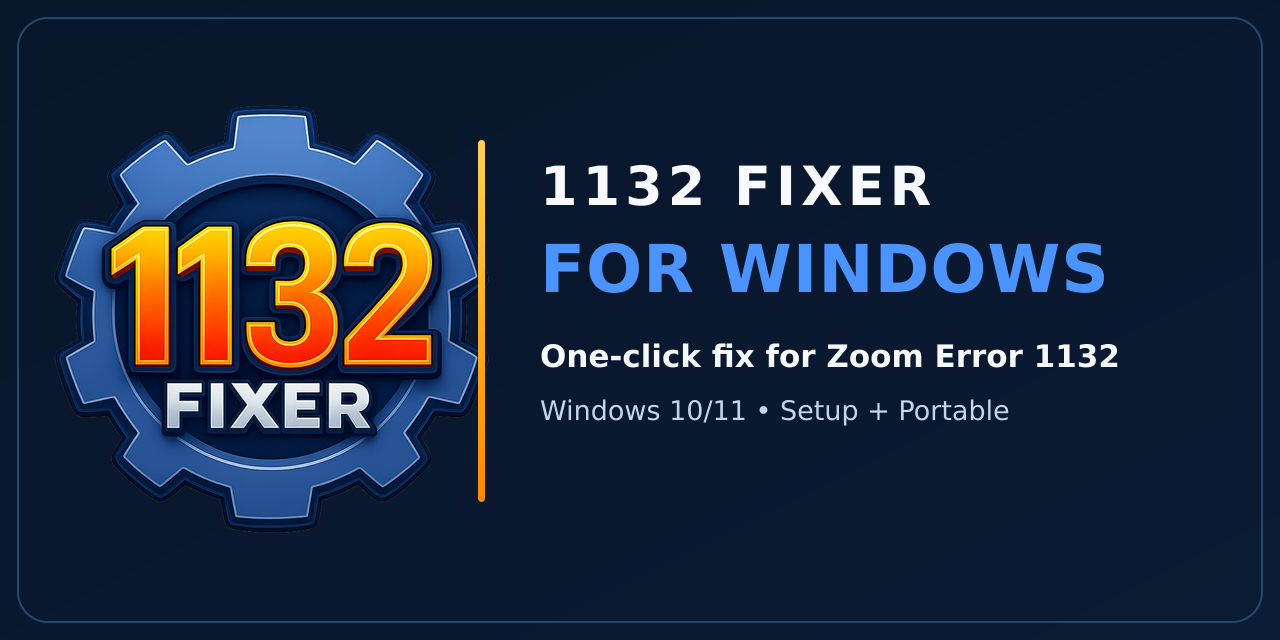
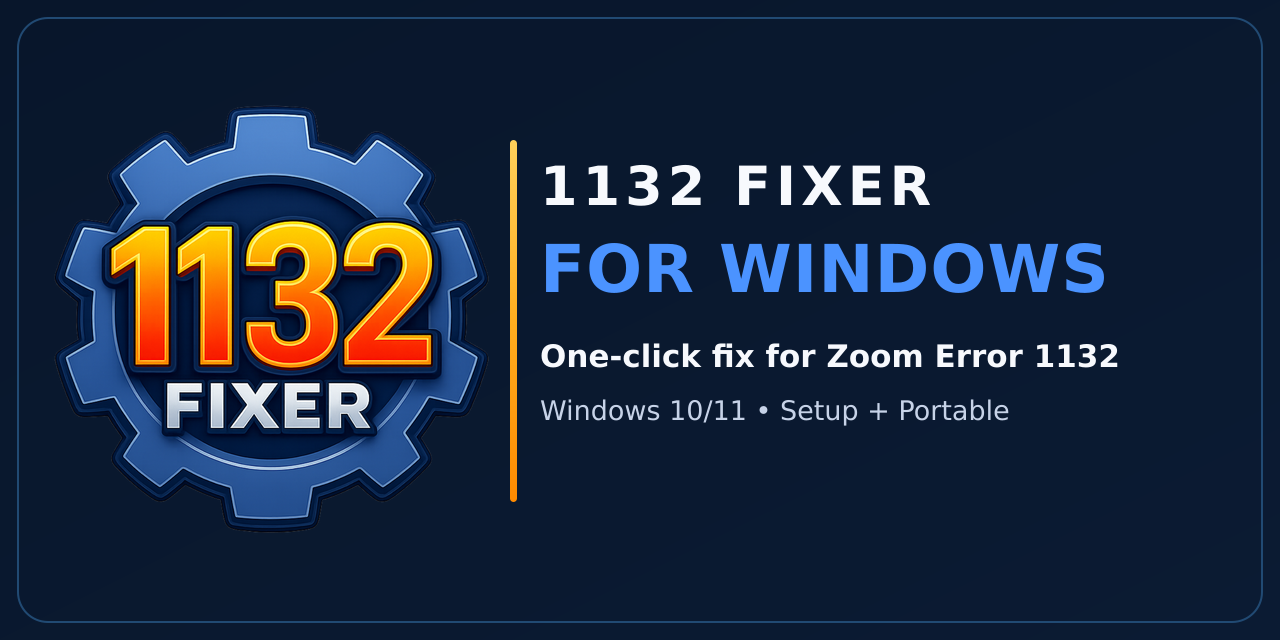
feat(brand): branding-correction directive — corrected card, locked tagline
Operator branding-correction directive (2026-08-07), Windows slice:

- assets/social-preview.png + .svg replaced with the corrected Windows card
  from the verified ZIP (sha256 bb4a9ff4…, divider x="510", no logo holder;
  PNG 1280x640 <1MB; SVG's sibling logo already byte-identical in assets/).
- index.html logo-desc: the last old tagline on an active surface
  ("Zoom 1132 repair utility for Windows") replaced with the locked line
  "One-click fix for Zoom Error 1132".
- package.json build files: social/design-source assets excluded from the
  packaged app (README/GitHub-only artifacts, not runtime).

Already compliant on this branch, verified not changed: bare transparent
header mark with no holder/radius/shadow (logo CSS), locked user1 notice
verbatim (index.html:834), README hero + locked tagline. Client suite
6 PASS / 0 FAIL.

Changed region(s): [[0.375, 0.2188, 0.4062, 0.7812]]

diff --git a/index.html b/index.html
@@ -809,7 +809,7 @@
       <img src="assets/logo-transparent.png" alt="">
       <span class="logo-title">1132 Fixer</span>
       <div class="logo-sep" aria-hidden="true"></div>
-      <span class="logo-desc">Zoom 1132 repair utility for Windows</span>
+      <span class="logo-desc">One-click fix for Zoom Error 1132</span>
     </div>
   </div>
 
